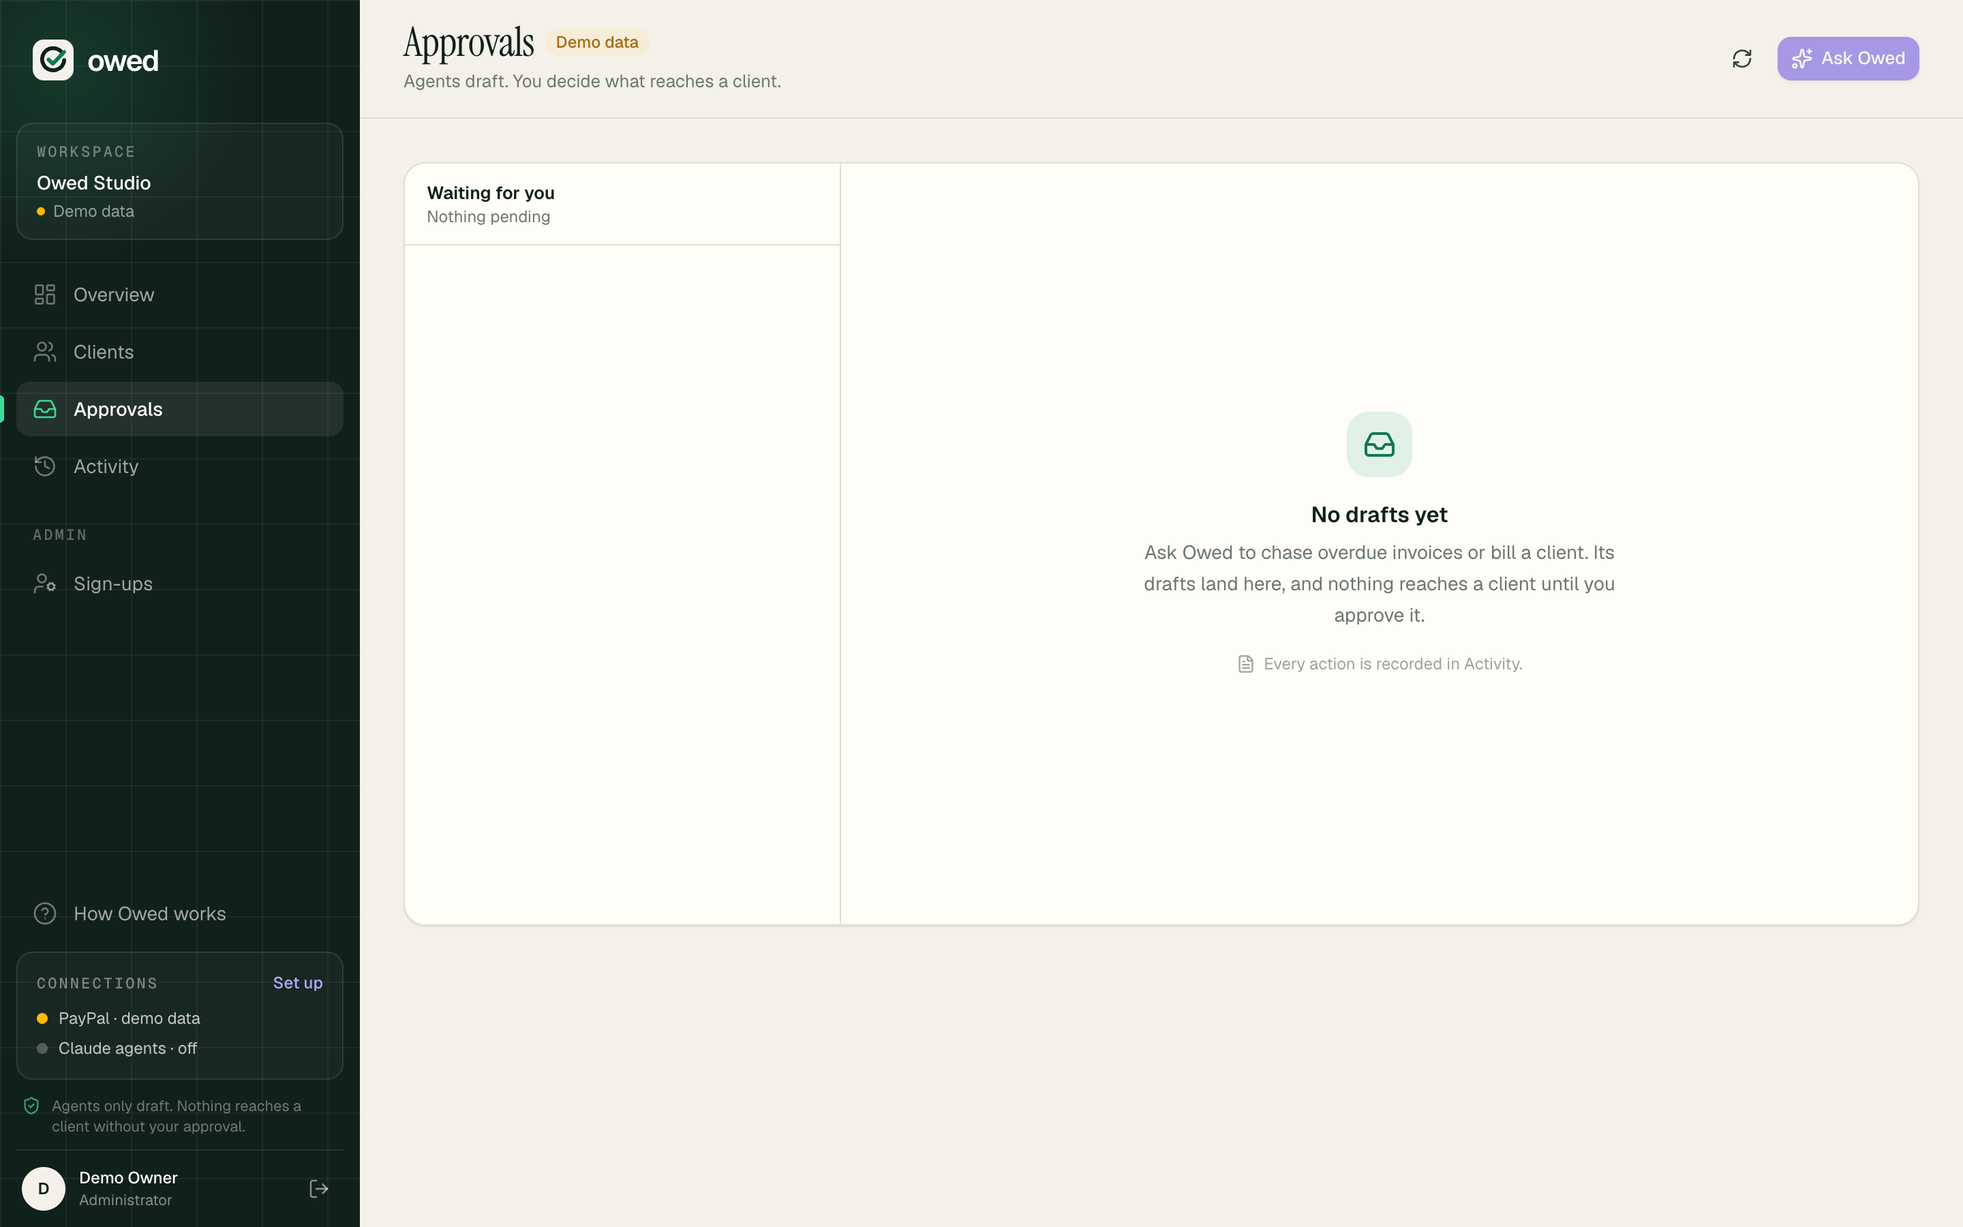
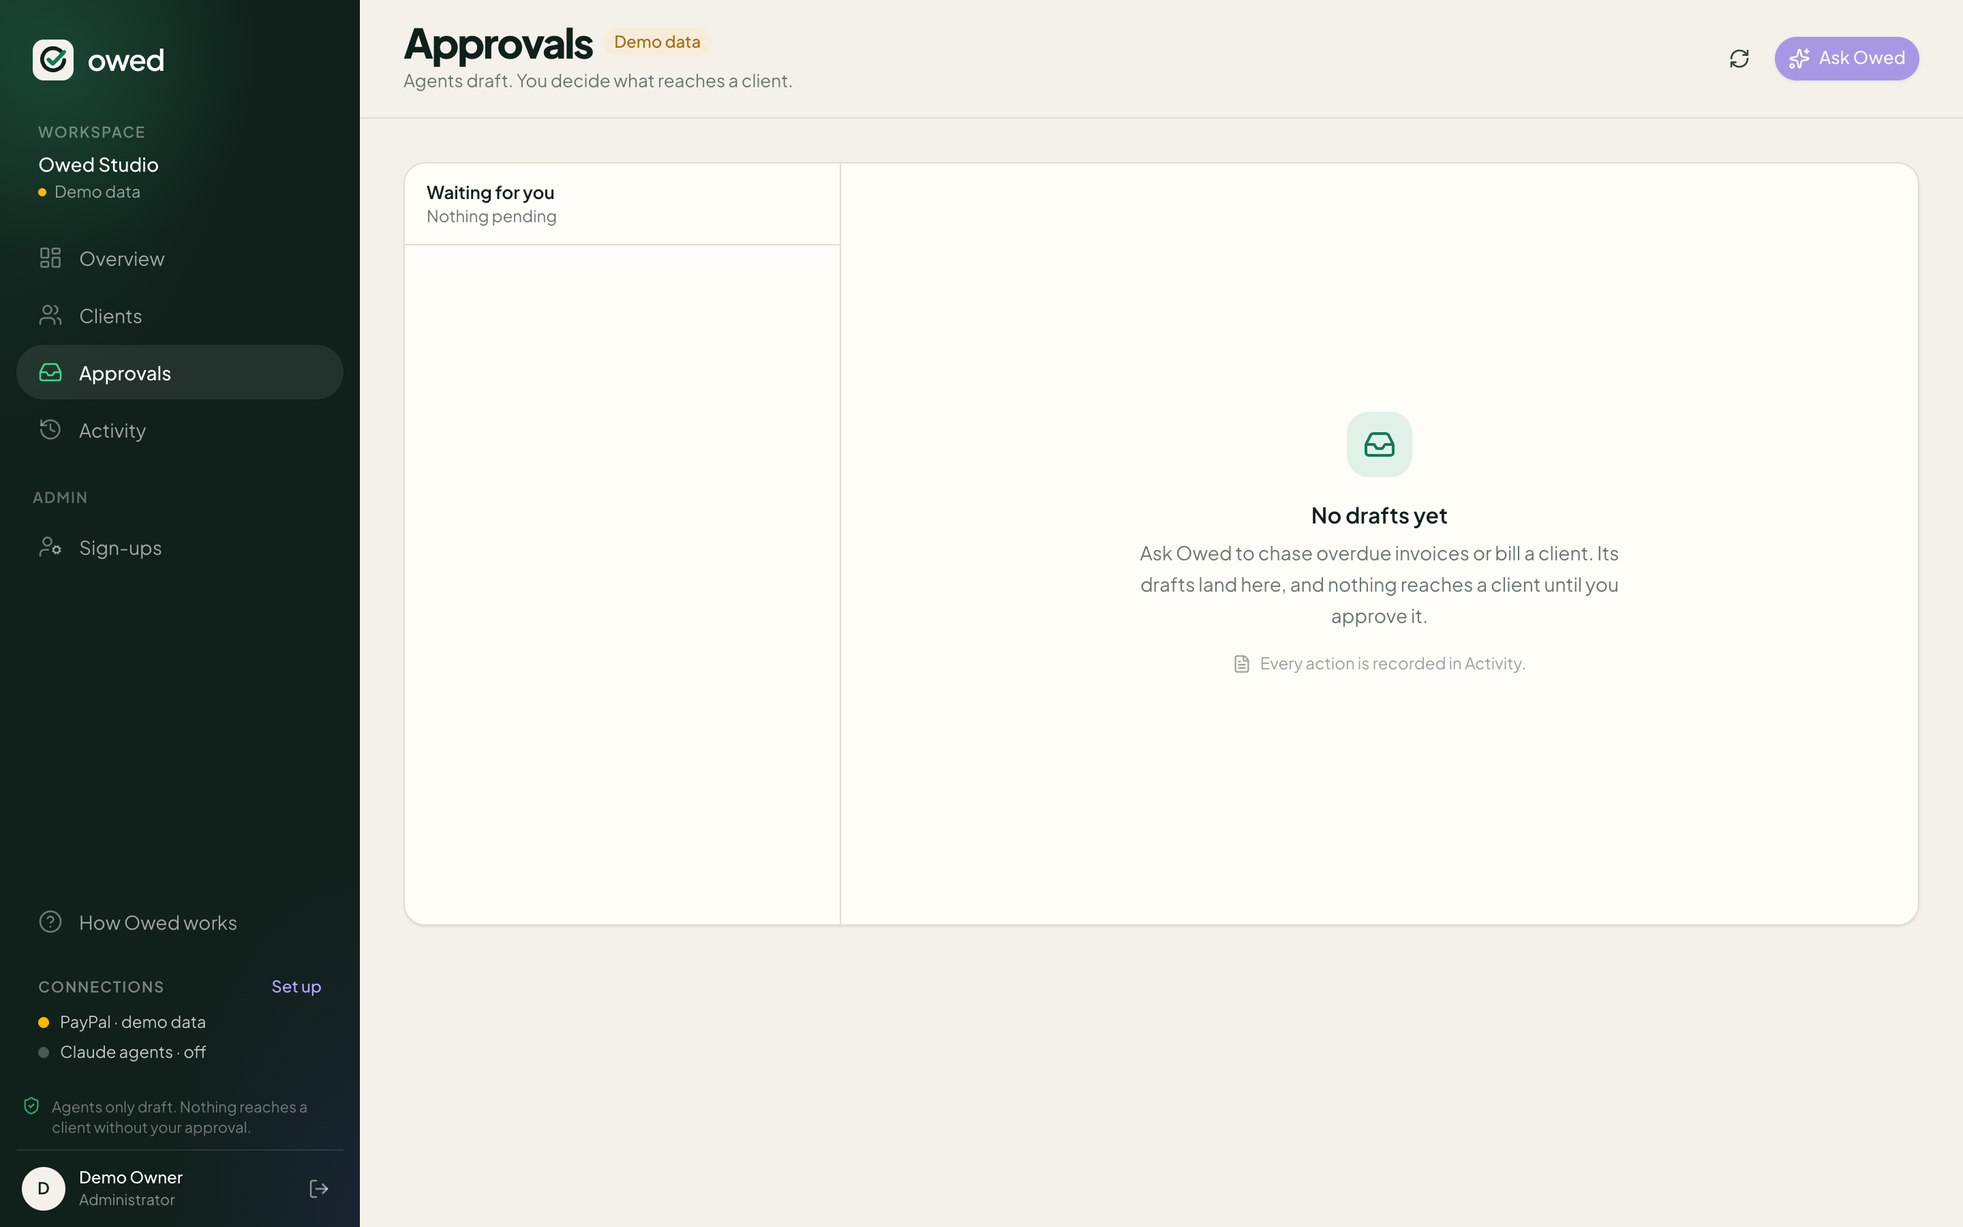
feat(design): Plus Jakarta Sans across the app, no grid pattern, pill nav and buttons, rounder slips

diff --git a/design/font-options.html b/design/font-options.html
@@ -1,0 +1,115 @@
+<!doctype html>
+<html lang="en">
+<head>
+<meta charset="utf-8">
+<meta name="viewport" content="width=device-width, initial-scale=1">
+<title>Owed font options</title>
+<link rel="preconnect" href="https://fonts.googleapis.com">
+<link rel="stylesheet" href="https://fonts.googleapis.com/css2?family=Fraunces:ital,opsz,wght@0,9..144,400;0,9..144,600;1,9..144,400&family=Manrope:wght@400;500;600&family=Bricolage+Grotesque:opsz,wght@12..96,500;12..96,700&family=DM+Sans:wght@400;500&family=Plus+Jakarta+Sans:wght@400;500;700;800&family=IBM+Plex+Sans:wght@400;500;600&family=IBM+Plex+Mono:wght@400;500;600&family=JetBrains+Mono:wght@500&display=swap">
+<style>
+  :root { --paper: #f4f1ea; --slip: #fffdf8; --ink: #10201a; --ink2: #34443c; --muted: #6b776f; --line: #e4ddcf; --green: #0f7b53; --late: #c0462a; --ai: #5a3fe0; }
+  * { box-sizing: border-box; }
+  body { margin: 0; background: var(--paper); color: var(--ink); font-family: system-ui, sans-serif; padding: 40px 16px 80px; }
+  .wrap { max-width: 1120px; margin: 0 auto; }
+  header h1 { font: 600 26px/1.2 system-ui; margin: 0 0 6px; }
+  header p { color: var(--muted); margin: 0 0 36px; max-width: 72ch; line-height: 1.55; }
+  .opt { display: grid; grid-template-columns: 1.25fr 1fr; gap: 40px; align-items: center; padding: 44px 0; border-top: 1px solid var(--line); }
+  @media (max-width: 860px) { .opt { grid-template-columns: 1fr; } }
+  .tag { font: 600 12px/1 system-ui; letter-spacing: .08em; text-transform: uppercase; color: var(--ai); margin-bottom: 14px; }
+  .name { font: 13px/1.4 system-ui; color: var(--muted); margin-bottom: 18px; }
+  .h { margin: 0; font-size: clamp(40px, 5.2vw, 64px); line-height: 1; }
+  .h em { color: var(--green); }
+  .sub { margin: 18px 0 0; font-size: 17px; line-height: 1.6; color: var(--ink2); max-width: 36rem; }
+  .btn { display: inline-flex; align-items: center; gap: 8px; margin-top: 24px; background: var(--ink); color: #fff; border-radius: 999px; padding: 12px 20px; font-size: 15px; }
+  .nav { display: flex; gap: 22px; margin-top: 22px; font-size: 14px; color: var(--muted); }
+  .nav b { color: var(--ink); font-weight: 600; }
+  /* the slip */
+  .slip { position: relative; background: var(--slip); border-radius: 18px 18px 0 0; padding: 26px 26px 34px; box-shadow: 0 30px 60px -30px rgba(16,32,26,.35);
+    -webkit-mask: radial-gradient(circle 6px at 50% 100%, transparent 98%, #000) 0 0 / 18px 100% repeat-x; mask: radial-gradient(circle 6px at 50% 100%, transparent 98%, #000) 0 0 / 18px 100% repeat-x; transform: rotate(-1.2deg); }
+  .slip .k { font-size: 11px; letter-spacing: .14em; text-transform: uppercase; color: var(--muted); }
+  .slip .who { margin-top: 6px; font-size: 16px; font-weight: 600; }
+  .slip .row { display: flex; justify-content: space-between; font-size: 14px; color: var(--ink2); margin-top: 10px; }
+  .slip .rule { border-top: 1px dashed #d3cab8; margin: 16px 0 6px; }
+  .slip .amt { font-size: 46px; line-height: 1; margin-top: 10px; }
+  .slip .late { margin-top: 10px; font-size: 12px; color: var(--late); }
+  .stamp { position: absolute; top: 22px; right: 22px; border: 2px solid var(--late); color: var(--late); border-radius: 6px; padding: 3px 9px; font-size: 11px; font-weight: 700; letter-spacing: .14em; transform: rotate(-7deg); }
+
+  /* 1 Fraunces + Manrope */
+  .o1 .h, .o1 .amt { font-family: 'Fraunces', serif; font-weight: 400; letter-spacing: -0.035em; font-variation-settings: "opsz" 144; }
+  .o1 .h em { font-style: italic; }
+  .o1 .sub, .o1 .btn, .o1 .nav, .o1 .who, .o1 .row { font-family: 'Manrope', sans-serif; }
+  .o1 .k, .o1 .late, .o1 .stamp { font-family: 'JetBrains Mono', monospace; }
+  /* 2 Bricolage + DM Sans */
+  .o2 .h, .o2 .amt { font-family: 'Bricolage Grotesque', sans-serif; font-weight: 700; letter-spacing: -0.045em; }
+  .o2 .h em { font-style: normal; }
+  .o2 .sub, .o2 .btn, .o2 .nav, .o2 .who, .o2 .row { font-family: 'DM Sans', sans-serif; }
+  .o2 .k, .o2 .late, .o2 .stamp { font-family: 'JetBrains Mono', monospace; }
+  /* 3 Plus Jakarta Sans */
+  .o3 .h, .o3 .amt { font-family: 'Plus Jakarta Sans', sans-serif; font-weight: 800; letter-spacing: -0.045em; }
+  .o3 .h em { font-style: normal; }
+  .o3 .sub, .o3 .btn, .o3 .nav, .o3 .who, .o3 .row, .o3 .k, .o3 .late, .o3 .stamp { font-family: 'Plus Jakarta Sans', sans-serif; }
+  /* 4 IBM Plex */
+  .o4 .h, .o4 .amt { font-family: 'IBM Plex Sans', sans-serif; font-weight: 600; letter-spacing: -0.035em; }
+  .o4 .h em { font-style: normal; }
+  .o4 .sub, .o4 .btn, .o4 .nav, .o4 .who { font-family: 'IBM Plex Sans', sans-serif; }
+  .o4 .row, .o4 .k, .o4 .late, .o4 .stamp, .o4 .amt { font-family: 'IBM Plex Mono', monospace; }
+  .o4 .amt { font-weight: 500; letter-spacing: -0.04em; }
+</style>
+</head>
+<body>
+<div class="wrap">
+  <header>
+    <h1>Owed: font options</h1>
+    <p>Each option is the font for the whole webapp: landing, sign-in/sign-up, side nav, dashboard and admin. The headline, body text, button and nav on the left show how every page reads; the slip shows amounts and labels. Layouts drop the boxed cards and grid pattern. Tell Claude the number you like.</p>
+  </header>
+
+  <section class="opt o1">
+    <div>
+      <div class="tag">1 · Warm editorial</div>
+      <div class="name">Fraunces (headlines, amounts) + Manrope (text) + JetBrains Mono (labels)</div>
+      <h2 class="h">Get paid for the work <em>you already did.</em></h2>
+      <p class="sub">Claude agents read your PayPal invoices, learn how each client really pays, and draft the right reminder. You approve before anything is sent.</p>
+      <span class="btn">Create a free account →</span>
+      <div class="nav"><b>Overview</b><span>Clients</span><span>Approvals</span><span>Activity</span></div>
+    </div>
+    <div class="slip"><span class="stamp">OVERDUE</span><div class="k">Invoice · INV-1042</div><div class="who">Vantage Robotics</div><div class="row"><span>Brand system design</span><span>6,400.00</span></div><div class="row"><span>Prototype sprint</span><span>2,500.00</span></div><div class="rule"></div><div class="k">Balance due</div><div class="amt">$8,900</div><div class="late">48 days late · usually pays 49 days late</div></div>
+  </section>
+
+  <section class="opt o2">
+    <div>
+      <div class="tag">2 · Characterful modern</div>
+      <div class="name">Bricolage Grotesque (headlines, amounts) + DM Sans (text) + JetBrains Mono (labels)</div>
+      <h2 class="h">Get paid for the work <em>you already did.</em></h2>
+      <p class="sub">Claude agents read your PayPal invoices, learn how each client really pays, and draft the right reminder. You approve before anything is sent.</p>
+      <span class="btn">Create a free account →</span>
+      <div class="nav"><b>Overview</b><span>Clients</span><span>Approvals</span><span>Activity</span></div>
+    </div>
+    <div class="slip"><span class="stamp">OVERDUE</span><div class="k">Invoice · INV-1042</div><div class="who">Vantage Robotics</div><div class="row"><span>Brand system design</span><span>6,400.00</span></div><div class="row"><span>Prototype sprint</span><span>2,500.00</span></div><div class="rule"></div><div class="k">Balance due</div><div class="amt">$8,900</div><div class="late">48 days late · usually pays 49 days late</div></div>
+  </section>
+
+  <section class="opt o3">
+    <div>
+      <div class="tag">3 · Clean fintech</div>
+      <div class="name">Plus Jakarta Sans throughout (bold headlines, regular text)</div>
+      <h2 class="h">Get paid for the work <em>you already did.</em></h2>
+      <p class="sub">Claude agents read your PayPal invoices, learn how each client really pays, and draft the right reminder. You approve before anything is sent.</p>
+      <span class="btn">Create a free account →</span>
+      <div class="nav"><b>Overview</b><span>Clients</span><span>Approvals</span><span>Activity</span></div>
+    </div>
+    <div class="slip"><span class="stamp">OVERDUE</span><div class="k">Invoice · INV-1042</div><div class="who">Vantage Robotics</div><div class="row"><span>Brand system design</span><span>6,400.00</span></div><div class="row"><span>Prototype sprint</span><span>2,500.00</span></div><div class="rule"></div><div class="k">Balance due</div><div class="amt">$8,900</div><div class="late">48 days late · usually pays 49 days late</div></div>
+  </section>
+
+  <section class="opt o4">
+    <div>
+      <div class="tag">4 · Receipt / ledger</div>
+      <div class="name">IBM Plex Sans (headlines, text) + IBM Plex Mono (amounts, line items, labels)</div>
+      <h2 class="h">Get paid for the work <em>you already did.</em></h2>
+      <p class="sub">Claude agents read your PayPal invoices, learn how each client really pays, and draft the right reminder. You approve before anything is sent.</p>
+      <span class="btn">Create a free account →</span>
+      <div class="nav"><b>Overview</b><span>Clients</span><span>Approvals</span><span>Activity</span></div>
+    </div>
+    <div class="slip"><span class="stamp">OVERDUE</span><div class="k">Invoice · INV-1042</div><div class="who">Vantage Robotics</div><div class="row"><span>Brand system design</span><span>6,400.00</span></div><div class="row"><span>Prototype sprint</span><span>2,500.00</span></div><div class="rule"></div><div class="k">Balance due</div><div class="amt">$8,900</div><div class="late">48 days late · usually pays 49 days late</div></div>
+  </section>
+</div>
+</body>
+</html>

diff --git a/components/side-nav.tsx b/components/side-nav.tsx
@@ -38,13 +38,12 @@ function Item({
   badge?: number;
 }) {
   const cls = cx(
-    'group relative flex h-10 items-center gap-3 rounded-[10px] px-3 text-sm transition-colors',
+    'group relative flex h-10 items-center gap-3 rounded-full px-4 text-sm transition-colors',
     active ? 'bg-white/[0.08] font-medium text-white' : 'text-white/60 hover:bg-white/[0.04] hover:text-white',
   );
   const body = (
     <>
-      {active && <span className="absolute inset-y-2.5 -left-3 w-[3px] rounded-r-full bg-mint" />}
-      <Icon className={cx('size-[18px]', active ? 'text-mint' : 'text-white/40 group-hover:text-white/75')} strokeWidth={1.75} />
+            <Icon className={cx('size-[18px]', active ? 'text-mint' : 'text-white/40 group-hover:text-white/75')} strokeWidth={1.75} />
       {label}
       {!!badge && <span className="ml-auto rounded-full bg-ai px-2 font-mono text-[11px] font-semibold leading-5 text-white">{badge}</span>}
     </>
@@ -90,7 +89,7 @@ export default function SideNav({
         </Link>
       </div>
 
-      <div className="relative mx-3 mb-5 rounded-xl border border-white/10 bg-white/[0.03] px-3.5 py-3">
+      <div className="relative mx-3 mb-5 px-4">
         <p className="eyebrow text-[10px] text-white/40">Workspace</p>
         <p className="mt-1 truncate text-[14px] font-medium">{business ?? 'Owed Studio'}</p>
         <p className="mt-0.5 flex items-center gap-1.5 text-xs text-white/55">
@@ -123,7 +122,7 @@ export default function SideNav({
         {onTour && (
           <button
             onClick={onTour}
-            className="flex h-10 w-full items-center gap-3 rounded-[10px] px-3 text-sm text-white/60 hover:bg-white/[0.04] hover:text-white"
+            className="flex h-10 w-full items-center gap-3 rounded-full px-4 text-sm text-white/60 hover:bg-white/[0.04] hover:text-white"
           >
             <CircleHelp className="size-[18px] text-white/40" strokeWidth={1.75} />
             How Owed works
@@ -132,7 +131,7 @@ export default function SideNav({
         <button
           onClick={onSetup}
           disabled={!onSetup}
-          className="block w-full rounded-xl border border-white/10 bg-white/[0.03] p-3.5 text-left text-xs enabled:hover:border-white/20 enabled:hover:bg-white/[0.06]"
+          className="block w-full rounded-3xl px-4 py-3 text-left text-xs enabled:hover:bg-white/[0.05]"
           title="See what to connect and how"
         >
           <p className="mb-2.5 flex items-center">

diff --git a/app/globals.css b/app/globals.css
@@ -3,9 +3,9 @@
 /* Owed design tokens. Neutral ink UI (buttons, text), emerald for money that has landed,
    amber/rose for money that is late, violet for anything an agent did. */
 @theme inline {
-  --font-sans: var(--font-geist-sans), ui-sans-serif, system-ui, sans-serif;
-  --font-mono: var(--font-geist-mono), ui-monospace, monospace;
-  --font-serif: var(--font-instrument-serif), ui-serif, Georgia, serif;
+  --font-sans: var(--font-jakarta), ui-sans-serif, system-ui, sans-serif;
+  --font-mono: var(--font-jakarta), ui-sans-serif, system-ui, sans-serif;
+  --font-serif: var(--font-jakarta), ui-sans-serif, system-ui, sans-serif;
 
   /* Ledger: warm paper, forest ink, money green, terracotta for late, violet for agents */
   --color-canvas: #f4f1ea;
@@ -42,18 +42,24 @@ body {
   background: var(--color-canvas);
   color: var(--color-ink);
   font-family: var(--font-sans);
-  font-feature-settings: "cv11", "ss01";
+  font-variant-numeric: tabular-nums;
 }
 
 .tabular {
   font-variant-numeric: tabular-nums;
 }
 
-/* Editorial serif for headlines and big numbers */
+/* Display: heavy, tight Plus Jakarta Sans for headlines and big numbers */
 .serif {
   font-family: var(--font-serif);
-  font-weight: 400;
-  letter-spacing: -0.02em;
+  font-weight: 800;
+  letter-spacing: -0.045em;
+}
+.serif em,
+.serif i,
+.serif .italic,
+.serif.italic {
+  font-style: normal;
 }
 
 /* Perforated bottom edge, like a torn-off invoice or receipt */
@@ -79,17 +85,16 @@ body {
   opacity: 0.9;
 }
 
-/* Hairline grid used on dark ink panels */
+/* Soft light on dark ink panels (no grid) */
 .ledger-grid {
-  background-image: linear-gradient(rgb(255 255 255 / 0.035) 1px, transparent 1px), linear-gradient(90deg, rgb(255 255 255 / 0.035) 1px, transparent 1px);
-  background-size: 48px 48px;
+  background-image: radial-gradient(120% 60% at 0% 0%, rgb(61 220 151 / 0.10), transparent 60%), radial-gradient(90% 50% at 100% 100%, rgb(90 63 224 / 0.12), transparent 60%);
 }
 
 .eyebrow {
-  font-family: var(--font-mono);
+  font-family: var(--font-sans);
   font-size: 11px;
-  font-weight: 500;
-  letter-spacing: 0.14em;
+  font-weight: 600;
+  letter-spacing: 0.08em;
   text-transform: uppercase;
 }
 

diff --git a/app/admin/page.tsx b/app/admin/page.tsx
@@ -54,13 +54,13 @@ async function SignUps() {
             <p className="mt-1 hidden text-[13px] text-muted sm:block">Everyone who has signed in to Owed through the DataSparkLab SSO.</p>
           </div>
           <div className="ml-auto flex items-center gap-2">
-            <a href="/app" className="rounded-[10px] px-3 py-2 text-sm text-ink-2 hover:bg-sunken lg:hidden">
+            <a href="/app" className="rounded-full px-3 py-2 text-sm text-ink-2 hover:bg-sunken lg:hidden">
               Dashboard
             </a>
             <a
               href={`data:text/csv;charset=utf-8,${encodeURIComponent(csv)}`}
               download="owed-sign-ups.csv"
-              className="inline-flex h-9 items-center gap-1.5 rounded-[10px] border border-line-strong bg-surface px-3.5 text-sm font-medium hover:bg-sunken"
+              className="inline-flex h-9 items-center gap-1.5 rounded-full border border-line-strong bg-surface px-3.5 text-sm font-medium hover:bg-sunken"
             >
               <Download className="size-4" /> Export CSV
             </a>

diff --git a/app/layout.tsx b/app/layout.tsx
@@ -1,21 +1,11 @@
 import type { Metadata } from "next";
-import { Geist, Geist_Mono, Instrument_Serif } from "next/font/google";
+import { Plus_Jakarta_Sans } from "next/font/google";
 import "./globals.css";
 
-const geistSans = Geist({
-  variable: "--font-geist-sans",
-  subsets: ["latin"],
-});
-
-const instrumentSerif = Instrument_Serif({
-  variable: "--font-instrument-serif",
-  weight: "400",
+const jakarta = Plus_Jakarta_Sans({
+  variable: "--font-jakarta",
+  weight: ["400", "500", "600", "700", "800"],
   style: ["normal", "italic"],
-  subsets: ["latin"],
-});
-
-const geistMono = Geist_Mono({
-  variable: "--font-geist-mono",
   subsets: ["latin"],
 });
 
@@ -28,7 +18,7 @@ export default function RootLayout({ children }: LayoutProps<"/">) {
   return (
     <html
       lang="en"
-      className={`${geistSans.variable} ${geistMono.variable} ${instrumentSerif.variable} h-full antialiased`}
+      className={`${jakarta.variable} h-full antialiased`}
     >
       <body className="min-h-full">{children}</body>
     </html>

diff --git a/app/not-found.tsx b/app/not-found.tsx
@@ -16,10 +16,10 @@ export default function NotFound() {
           <h1 className="serif mt-6 text-5xl leading-none">Nothing owed here.</h1>
           <p className="mt-4 text-[15px] leading-relaxed text-ink-2">This page doesn&apos;t exist, or your account can&apos;t open it.</p>
           <div className="mt-8 flex gap-2">
-            <a href="/app" className="inline-flex h-10 items-center rounded-[10px] bg-forest px-4 text-sm font-medium text-white hover:bg-brand-hover">
+            <a href="/app" className="inline-flex h-10 items-center rounded-full bg-forest px-4 text-sm font-medium text-white hover:bg-brand-hover">
               Open the dashboard
             </a>
-            <Link href="/" className="inline-flex h-10 items-center rounded-[10px] border border-line-strong px-4 text-sm font-medium hover:bg-sunken">
+            <Link href="/" className="inline-flex h-10 items-center rounded-full border border-line-strong px-4 text-sm font-medium hover:bg-sunken">
               Home
             </Link>
           </div>

diff --git a/components/studio-dashboard.tsx b/components/studio-dashboard.tsx
@@ -36,7 +36,7 @@ if (typeof window !== 'undefined') {
 // Matches the tokens in app/globals.css so Studio reads as part of the app, not an embed.
 const INK = '#10201a';
 const theme = studioTheme.withParams({
-  fontFamily: 'var(--font-geist-sans), ui-sans-serif, system-ui, sans-serif',
+  fontFamily: 'var(--font-jakarta), ui-sans-serif, system-ui, sans-serif',
   accentColor: '#5a3fe0',
   backgroundColor: '#fffdf8',
   foregroundColor: INK,
@@ -74,7 +74,7 @@ const theme = studioTheme.withParams({
   gridWrapperBorder: 'none',
   gridColumnBorder: 'none',
   gridRowBorder: '1px solid #efe9dd',
-  chartFontFamily: 'var(--font-geist-sans), ui-sans-serif, system-ui, sans-serif',
+  chartFontFamily: 'var(--font-jakarta), ui-sans-serif, system-ui, sans-serif',
   chartGridLineColor: '#ece6da',
   chartAxisLineColor: '#d9d1c1',
   chartSubtleTextColor: '#6b776f',

diff --git a/app/page.tsx b/app/page.tsx
@@ -176,7 +176,7 @@ export default function Landing({ searchParams }: PageProps<'/'>) {
           <p className="eyebrow inline-flex items-center gap-2 text-ai">
             <span className="size-1.5 rounded-full bg-ai" /> PayPal AI Hackathon 2026 · Entry
           </p>
-          <h1 className="serif mt-6 text-[clamp(52px,7.4vw,100px)] leading-[0.92]">
+          <h1 className="serif mt-6 text-[clamp(44px,5.6vw,80px)] leading-[0.98]">
             Get paid for the work <em className="text-good">you already did.</em>
           </h1>
           <p className="mt-7 max-w-[34rem] text-[17px] leading-relaxed text-ink-2">

diff --git a/components/ui.tsx b/components/ui.tsx
@@ -27,7 +27,7 @@ export function Button({
     <button
       {...props}
       className={cx(
-        'inline-flex items-center justify-center gap-1.5 rounded-[10px] font-medium transition-colors disabled:cursor-not-allowed disabled:opacity-50',
+        'inline-flex items-center justify-center gap-1.5 rounded-full font-medium transition-colors disabled:cursor-not-allowed disabled:opacity-50',
         size === 'sm' ? 'h-8 px-2.5 text-[13px]' : 'h-9 px-3.5 text-sm',
         BUTTON[variant],
         className,
